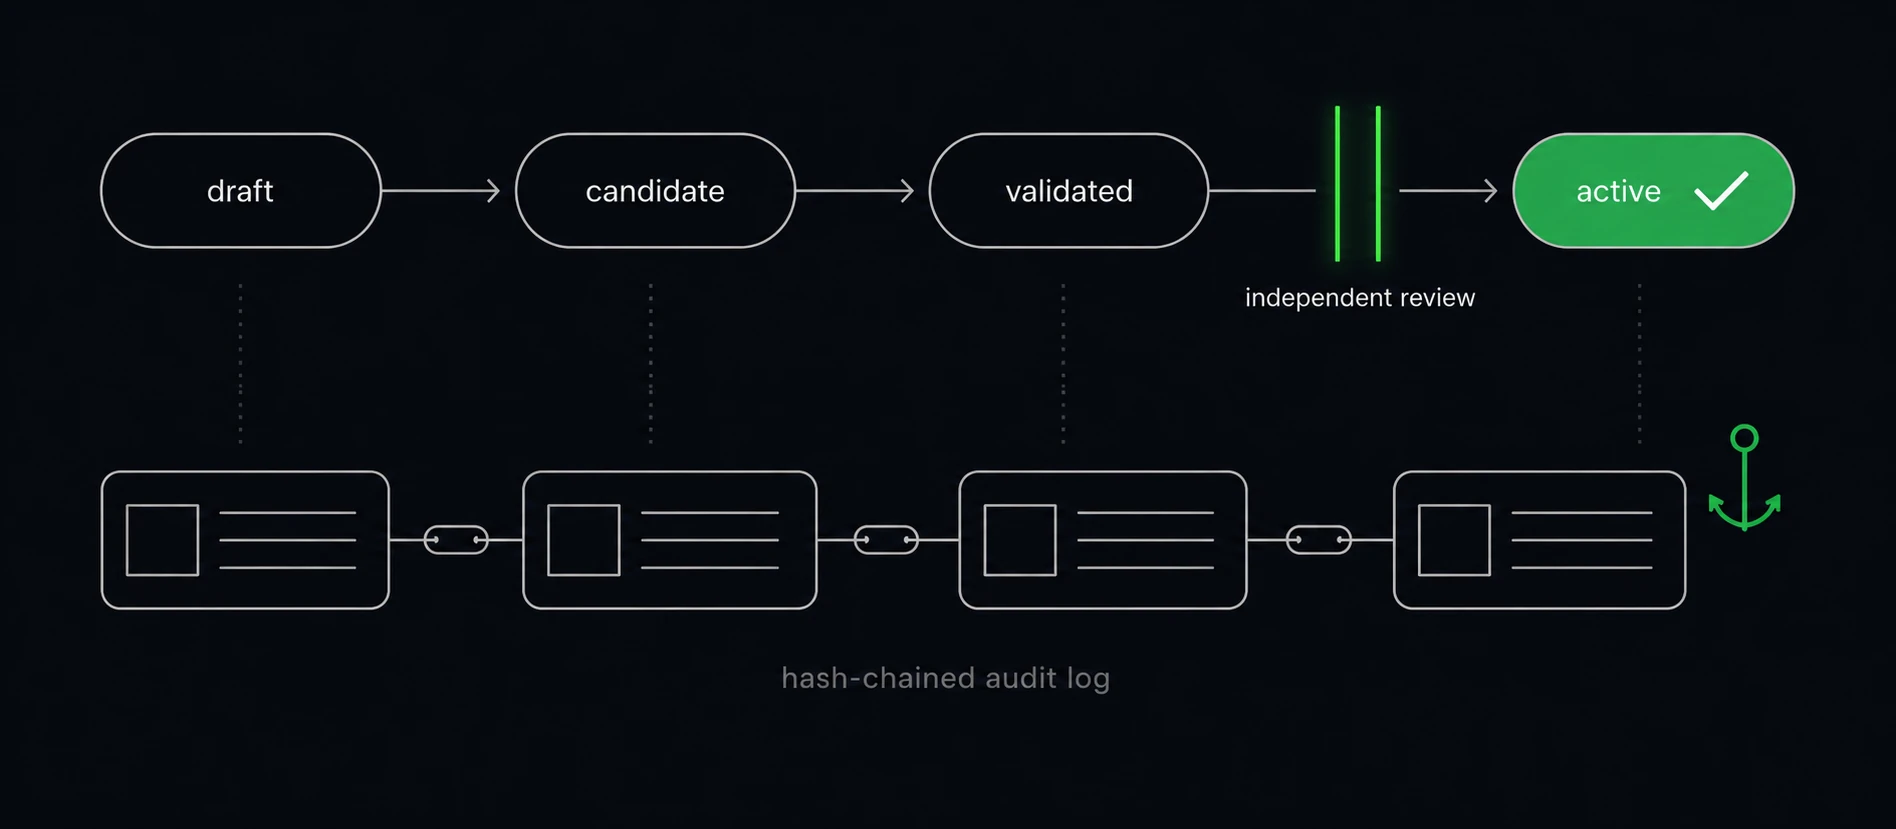
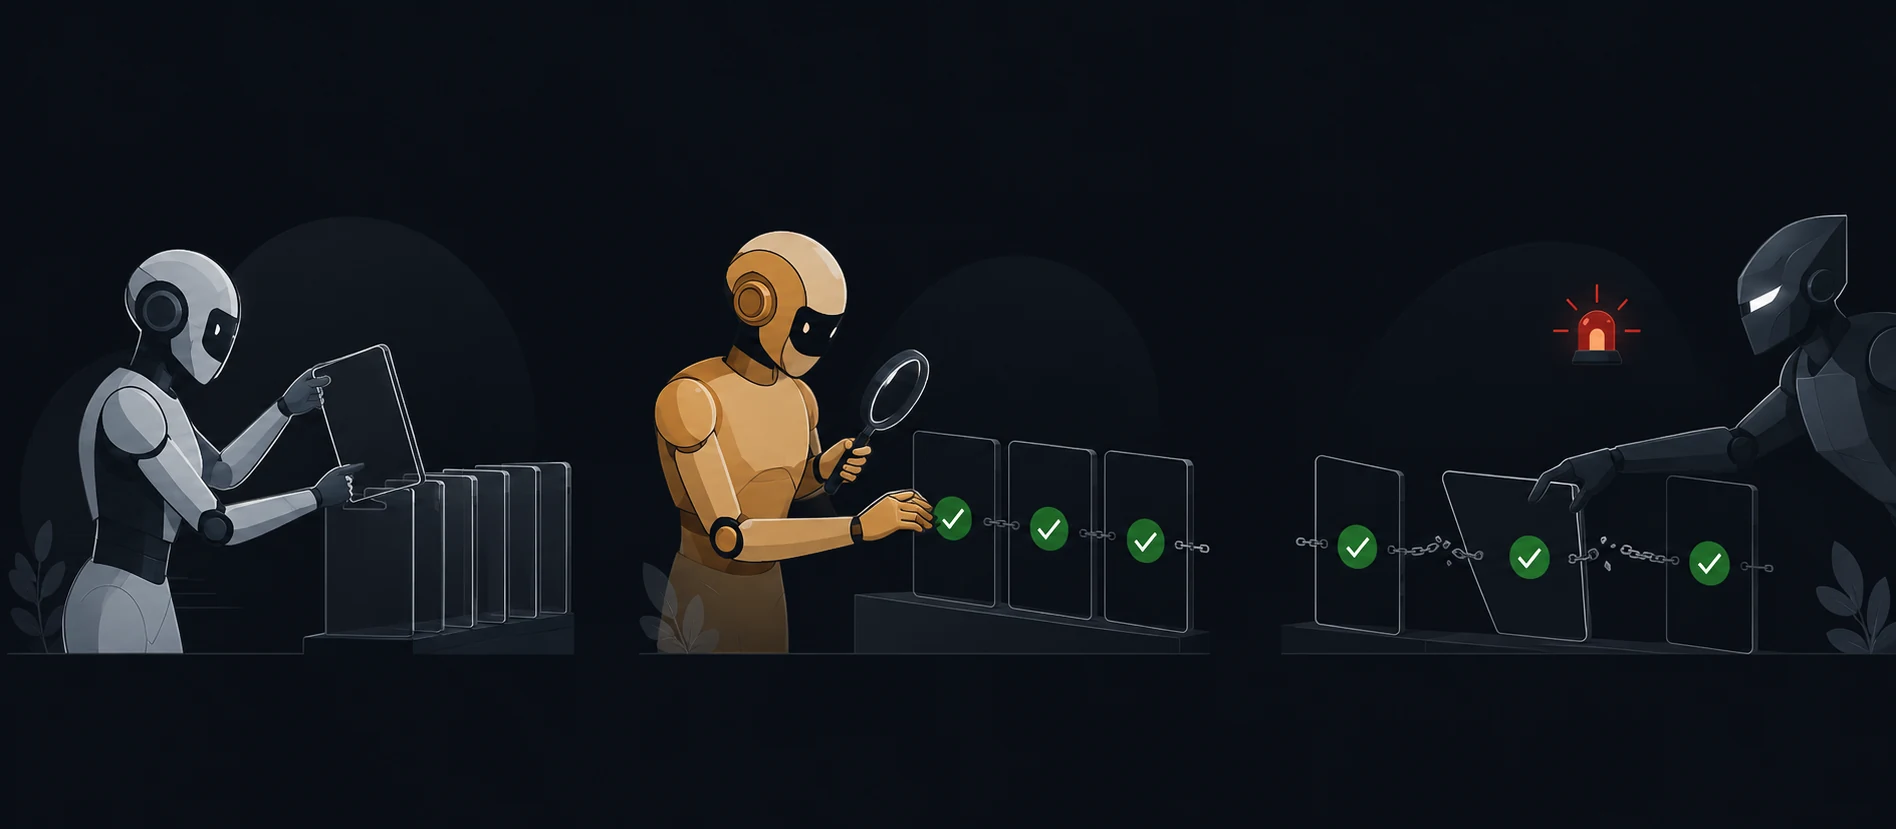
README: replace How-it-works hero with the slick 3-scene illustration (write → independent review → chained → tamper caught)

diff --git a/README.md b/README.md
@@ -54,7 +54,7 @@ complete fictional deployment — copy it, break it, validate it.</sub>
 ## How it works
 
 <p align="center">
-  <img src="assets/lifecycle.webp" width="860" alt="Lifecycle: draft to candidate to validated, through an enforced independent-review gate, to active — with every transition recorded in a hash-chained audit log whose head is anchored externally">
+  <img src="assets/lifecycle.webp" width="860" alt="Three scenes: one agent writes a record into a shared store; a different agent inspects it and stamps it with a green check; the approved records are joined in a chain — and when an attacker tries to swap one, the chain link snaps and an alarm fires.">
 </p>
 
 1. Every memory moves through a lifecycle: `draft → candidate → validated → active → superseded`.